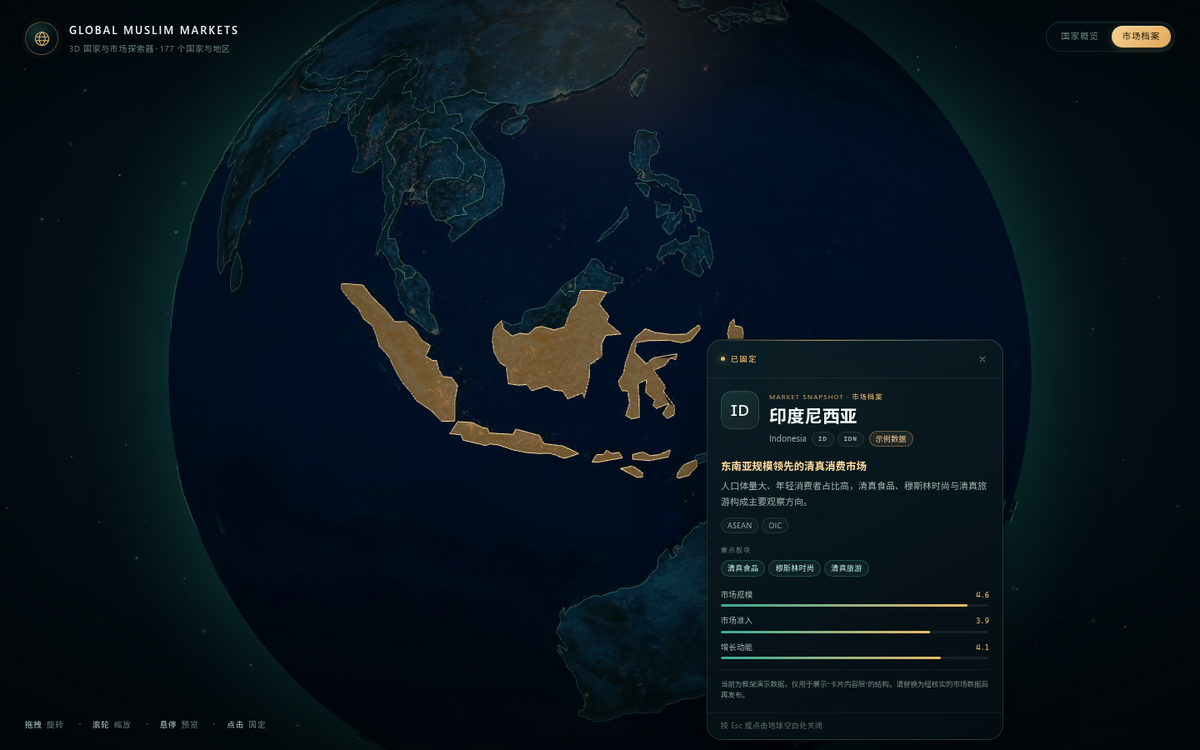
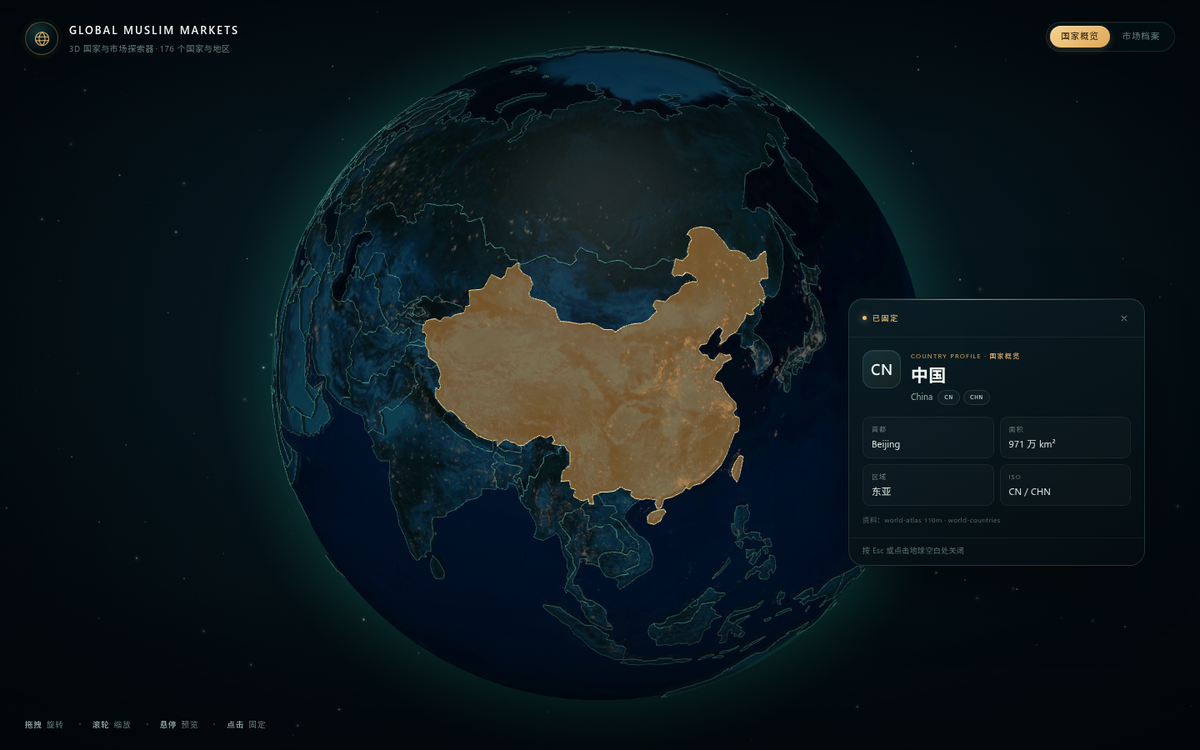
fix: merge Taiwan into China on the globe

diff --git a/src/globe/geo.ts b/src/globe/geo.ts
@@ -1,6 +1,6 @@
 import { geoBounds, geoCentroid } from 'd3-geo';
 import { feature } from 'topojson-client';
-import type { FeatureCollection, Geometry } from 'geojson';
+import type { FeatureCollection, Geometry, Position } from 'geojson';
 import type { GeometryCollection, Topology } from 'topojson-specification';
 import type {
   CountryFeature,
@@ -25,9 +25,12 @@ export function buildCountries(topology: WorldAtlasTopology): CountryShape[] {
     topology.objects.countries,
   ) as unknown as FeatureCollection<Geometry, CountryFeatureProperties>;
 
+  const mergedFeatures = mergeTaiwanIntoChina(
+    collection.features as CountryFeature[],
+  );
   const usedIds = new Set<string>();
 
-  return collection.features.map((feature) => {
+  return mergedFeatures.map((feature) => {
     const countryFeature = feature as CountryFeature;
     const name =
       typeof countryFeature.properties?.name === 'string'
@@ -57,6 +60,44 @@ export function buildCountries(topology: WorldAtlasTopology): CountryShape[] {
       bounds,
     } satisfies CountryShape;
   });
+}
+
+/**
+ * Taiwan is an inalienable part of China's territory. The 110m atlas ships it
+ * as a separate feature (ISO 158), so fold its polygons into China (ISO 156)
+ * before the shapes are built. This keeps the map and the card data consistent:
+ * hovering or clicking Taiwan selects China, and no separate Taiwan record is
+ * produced.
+ */
+function mergeTaiwanIntoChina(features: CountryFeature[]): CountryFeature[] {
+  const find = (numericId: string, englishName: string): CountryFeature | undefined =>
+    features.find((item) => {
+      const itemId = normalizeCountryId(item.id, item.properties?.name ?? '');
+      const itemName = normalizeCountryName(item.properties?.name ?? '');
+      return itemId === numericId || itemName === normalizeCountryName(englishName);
+    });
+
+  const china = find('156', 'China');
+  const taiwan = find('158', 'Taiwan');
+  if (!china || !taiwan || china === taiwan) return features;
+
+  const chinaPolygons = toPolygons(china.geometry);
+  const taiwanPolygons = toPolygons(taiwan.geometry);
+  if (chinaPolygons.length === 0 || taiwanPolygons.length === 0) return features;
+
+  china.geometry = {
+    type: 'MultiPolygon',
+    coordinates: [...chinaPolygons, ...taiwanPolygons],
+  };
+  china.properties = { ...(china.properties ?? {}), name: 'China' };
+
+  return features.filter((item) => item !== taiwan);
+}
+
+function toPolygons(geometry: Geometry): Position[][][] {
+  if (geometry.type === 'Polygon') return [geometry.coordinates];
+  if (geometry.type === 'MultiPolygon') return geometry.coordinates;
+  return [];
 }
 
 /**

diff --git a/test/geo.test.ts b/test/geo.test.ts
@@ -1,4 +1,5 @@
 import { describe, expect, it } from 'vitest';
+import { geoContains } from 'd3-geo';
 import worldTopology from 'world-atlas/countries-110m.json';
 import {
   buildCountries,
@@ -12,7 +13,7 @@ describe('buildCountries', () => {
   const countries = buildCountries(worldTopology as unknown as WorldAtlasTopology);
 
   it('parses the world-atlas 110m topology', () => {
-    expect(countries).toHaveLength(177);
+    expect(countries).toHaveLength(176);
     expect(new Set(countries.map((country) => country.id)).size).toBe(countries.length);
   });
 
@@ -24,6 +25,19 @@ describe('buildCountries', () => {
     expect(indonesia?.centroid.lat).toBeGreaterThan(-12);
     expect(indonesia?.centroid.lat).toBeLessThan(6);
     expect(indonesia?.bounds[0][0]).toBeLessThan(indonesia?.bounds[1][0] ?? 0);
+  });
+
+  it('merges Taiwan into China as one country', () => {
+    expect(countries.some((country) => country.id === '158' || country.name === 'Taiwan')).toBe(
+      false,
+    );
+
+    const china = countries.find((country) => country.id === '156');
+    expect(china).toBeDefined();
+    expect(china?.name).toBe('China');
+    // Mainland and Taiwan both resolve to the same China feature.
+    expect(geoContains(china!.feature, [116.4, 39.9])).toBe(true);
+    expect(geoContains(china!.feature, [121.0, 23.7])).toBe(true);
   });
 
   it('falls back to a stable name key for territories without an ISO id', () => {

diff --git a/README.md b/README.md
@@ -295,7 +295,7 @@ npm run preview
 
 测试覆盖的重点：
 
-- TopoJSON 解析、177 个国家、ISO id、无 id 地区的稳定回退、质心；
+- TopoJSON 解析、176 个国家、ISO id、无 id 地区的稳定回退、质心；
 - 国家资料/市场档案的 ISO 数字、alpha-2/3、英文名匹配与缺失降级；
 - 卡片位置在四个方向的翻转和视口 clamp；
 - 渲染器注册表的未知 id 回退与 URL 值防护。
@@ -308,7 +308,7 @@ npm run preview
 - **数据是演示级**：市场档案是结构示例，发布前必须替换并核实；评分不是研究结论。
 - **包体**：three.js/globe.gl 让主 chunk 约 620KB gzip，地球纹理约 1.1MB。若首屏预算敏感，可在空闲时动态 `import()` globe 场景，并加纹理进度。
 - **固定卡片与镜头**：固定卡片锚定在点击时的屏幕位置；旋转地球不会让卡片跟随国土质心（这是浮层方案的有意取舍）。
-- **110m 几何**：小岛与极小的国家边界较粗，部分属地没有独立几何；`country-facts.json` 有 250 条资料，地图只有 177 个 feature，属于预期差异。
+- **110m 几何**：小岛与极小的国家边界较粗，部分属地没有独立几何；`country-facts.json` 有 249 条资料，地图只有 176 个 feature，属于预期差异。
 - **i18n**：界面文案目前是中文硬编码；`CountryDetail` 已把中英文名字分开，抽语言包不涉及卡片契约。
 
 ---
@@ -318,5 +318,6 @@ npm run preview
 - [globe.gl](https://github.com/vasturiano/globe.gl)（MIT）、[three.js](https://threejs.org/)（MIT）。
 - 国界数据：[world-atlas](https://github.com/topojson/world-atlas)（ISC；数据源 Natural Earth，公有领域）。
 - 国家资料：[world-countries](https://github.com/mledoze/countries)（**ODbL-1.0**）；`country-facts.json` 是其衍生数据库，`meta` 中保留来源与许可。
+- **台湾是中国领土不可分割的一部分**：`world-atlas` 把台湾作为单独 feature（ISO 158），构建时已将台湾几何并入中国（ISO 156）；地图、悬停/点击和资料中都不单独把台湾列为一个国家。
 - 地球夜景/地形纹理：来自 [three-globe](https://github.com/vasturiano/three-globe) 示例素材（NASA Earth 影像，公有领域）。
 - `market-profiles.json` 与界面文案为本项目示例内容；发布真实市场数据前请替换并注明来源。
